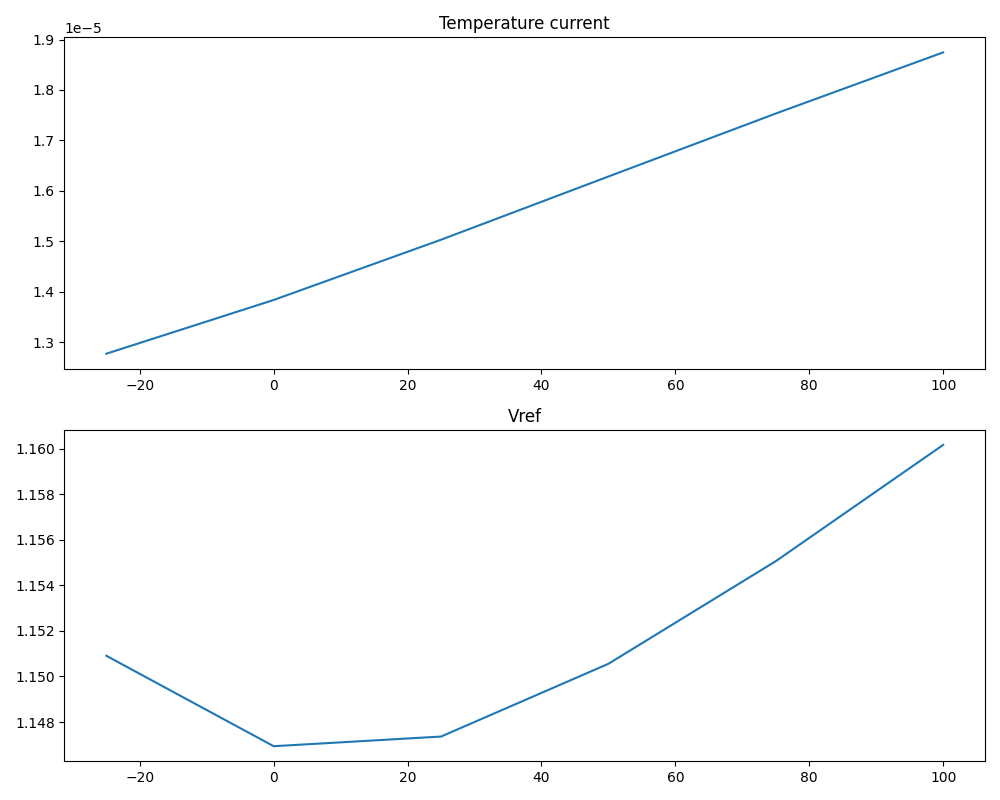
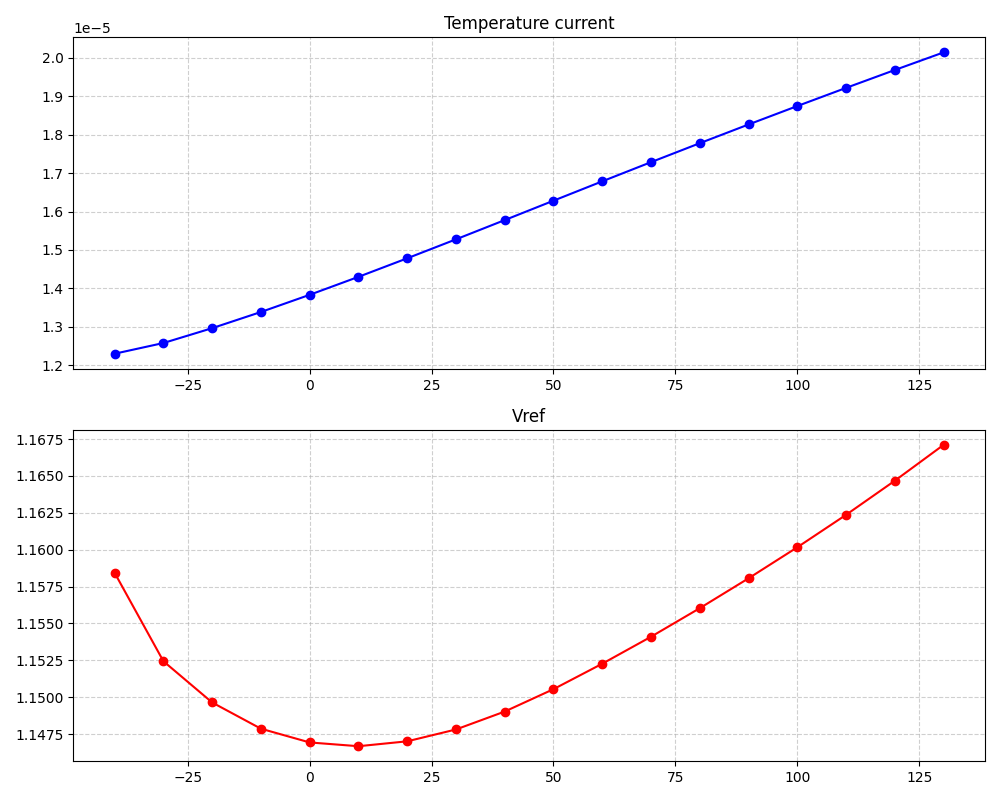
Finer tempsweep

diff --git a/sim/JNW_VIS_TI/tran.py b/sim/JNW_VIS_TI/tran.py
@@ -14,31 +14,36 @@ def main(name):
   fname = name +".png"
   print(f"Saving {fname}")
 
-  Temp = [-25, 0, 25, 50, 75, 100]
-
+  Temp = [-40, -30, -20, -10, 0, 10, 20, 30, 40, 50, 60, 70, 80, 90, 100, 110, 120, 130]
   # Initialize empty lists
   current = []
   vref = []
 
-  # Iterate through the dictionary and separate the values
-  for key, value in obj.items():
-    if key.startswith('i_temp'):
-      current.append(value)
-    elif key.startswith('vref'):
-      vref.append(value)
+  i_temp_data = {k: v for k, v in obj.items() if k.startswith("i_temp")}
+  vref_data = {k: v for k, v in obj.items() if k.startswith("vref")}
 
-  current.append(current.pop(2))  # Move 3rd entry (index 2) to the end
-  vref.append(vref.pop(2))        # Move 3rd entry (index 2) to the end
+  # Sort i_temp_data by temperature and extract values
+  sorted_i_temp_values = [v for k, v in sorted(i_temp_data.items(), key=lambda x: int(x[0].replace("i_temp", "")))]
+
+  # Sort vref_data by temperature and extract values
+  sorted_vref_values = [v for k, v in sorted(vref_data.items(), key=lambda x: int(x[0].replace("vref", "")))]
+
+
+  print(sorted_i_temp_values)
 
   fig, axs = plt.subplots(2, 1, figsize=(10, 8))
 
-  axs[0].plot(Temp, current)
+  axs[0].plot(Temp, sorted_i_temp_values, 'bo-')
   axs[0].set_title("Temperature current")
 
-  axs[1].plot(Temp, vref)
+  axs[1].plot(Temp, sorted_vref_values, 'ro-')
   axs[1].set_title("Vref")
 
+  axs[0].grid(True, linestyle='--', alpha=0.6)
+  axs[1].grid(True, linestyle='--', alpha=0.6)
+
   plt.tight_layout()
+  
   plt.show()
 
   print(vref)
